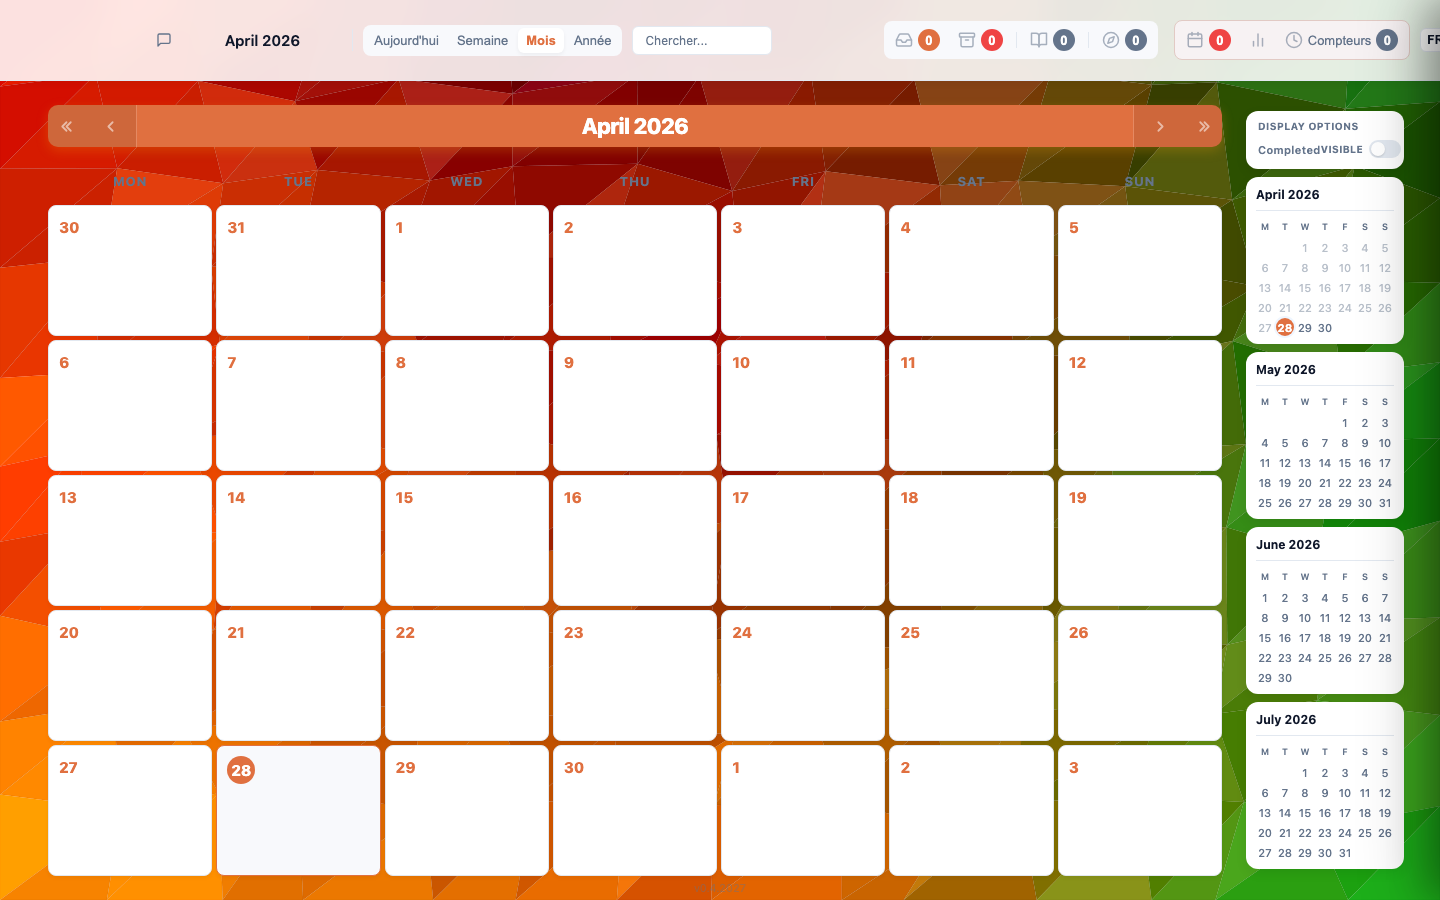
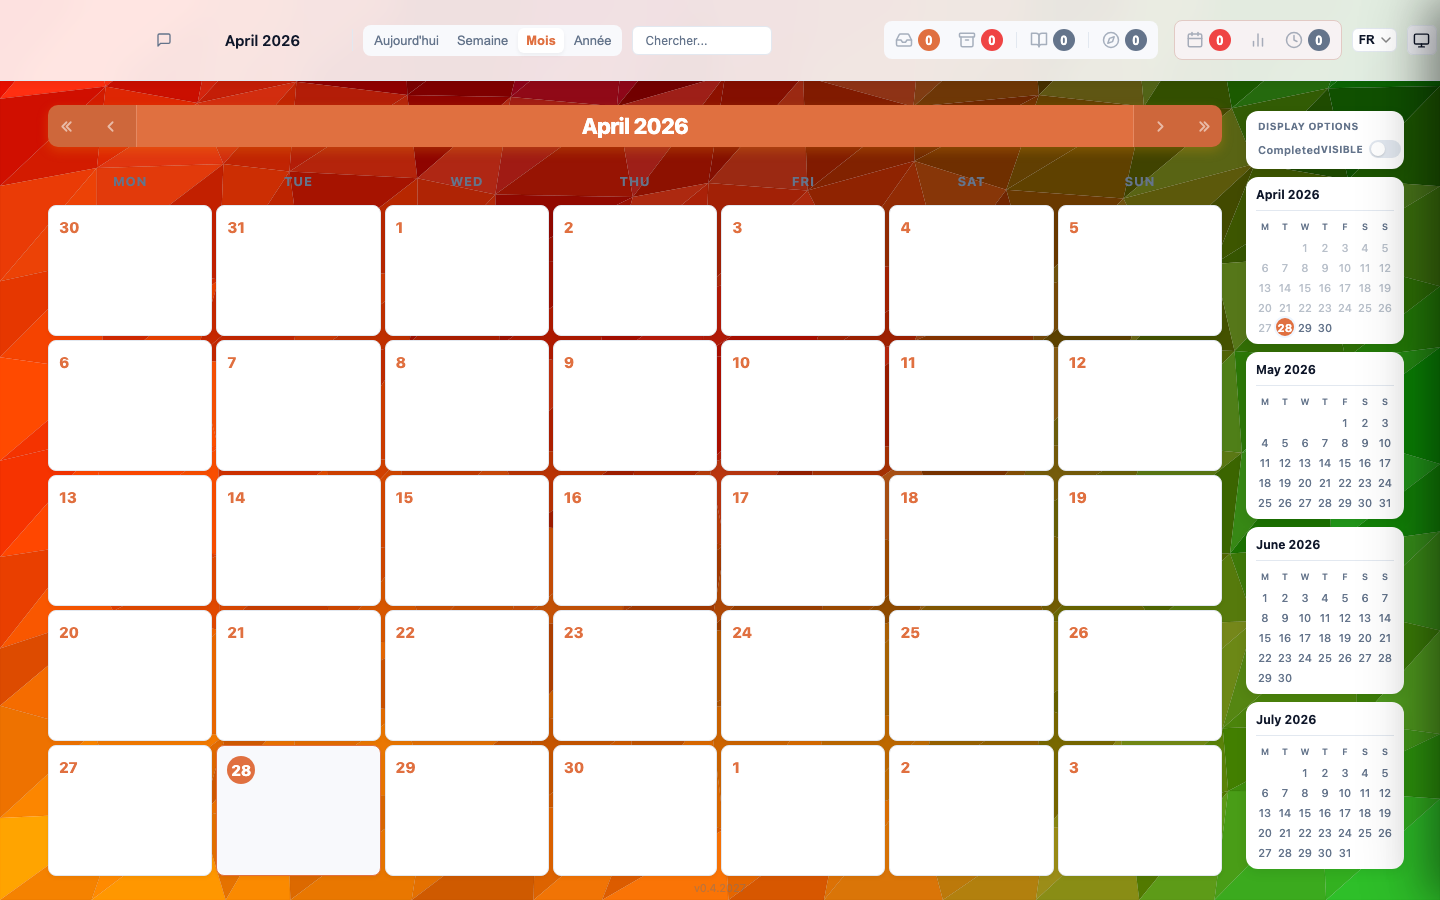
fix: prevent horizontal header overflow at 1500px viewport
- add overflow-x:hidden on body as safety net
- make .quick-find-input shrinkable (flex-shrink:1, min-width:120px)
- include .counters-tab in label-hide rule (was overflowing 130px)
- hide playground-link and hbtn-v26 below 1500px

diff --git a/css/styles.css b/css/styles.css
@@ -67,6 +67,7 @@ body {
   font-size: 15px;
   display: flex;
   flex-direction: column;
+  overflow-x: hidden;
 }
 
 header {
@@ -88,9 +89,10 @@ header.scrolled {
 .header-top {
   display: flex;
   align-items: center;
-  gap: 18px;
+  gap: 12px;
   padding: 14px 0;
   flex-wrap: nowrap;
+  min-width: 0;
 }
 
 .header-sep {
@@ -5944,7 +5946,8 @@ body:has(.bottom-panel:not(.hidden))::before {
   outline: none;
   transition: border-color 0.15s, background-color 0.15s;
   width: 200px;
-  flex-shrink: 0;
+  min-width: 120px;
+  flex-shrink: 1;
   cursor: text;
 }
 .quick-find-input:empty::before {
@@ -8586,7 +8589,13 @@ body:has(.bottom-panel:not(.hidden))::before {
 }
 @media (max-width: 1500px) and (min-width: 961px) {
   .inbox-tab span:not(.nav-badge), .backlog-tab span:not(.nav-badge), .plan-icon-tab span:not(.nav-badge), .projects-tab span:not(.nav-badge),
-  .intentions-tab span:not(.nav-badge), .analyse-tab span:not(.nav-badge) {
+  .intentions-tab span:not(.nav-badge), .analyse-tab span:not(.nav-badge), .counters-tab span:not(.nav-badge) {
+    display: none;
+  }
+  .playground-link {
+    display: none;
+  }
+  .hbtn-v26 {
     display: none;
   }
 }
@@ -8666,7 +8675,7 @@ body:has(.bottom-panel:not(.hidden))::before {
     display: none !important;
   }
   .inbox-tab span:not(.nav-badge), .backlog-tab span:not(.nav-badge), .plan-icon-tab span:not(.nav-badge), .projects-tab span:not(.nav-badge),
-  .intentions-tab span:not(.nav-badge), .analyse-tab span:not(.nav-badge) {
+  .intentions-tab span:not(.nav-badge), .analyse-tab span:not(.nav-badge), .counters-tab span:not(.nav-badge) {
     display: none;
   }
   .nav-group {

diff --git a/css/styles.scss b/css/styles.scss
@@ -99,6 +99,7 @@ body {
   font-size: 15px;
   display: flex;
   flex-direction: column;
+  overflow-x: hidden;
 }
 
 
@@ -122,9 +123,10 @@ header {
 .header-top {
   display: flex;
   align-items: center;
-  gap: 18px;
+  gap: 12px;
   padding: 14px 0;
   flex-wrap: nowrap;
+  min-width: 0;
 }
 
 .header-sep {
@@ -5631,7 +5633,8 @@ body:has(.bottom-panel:not(.hidden))::before {
   outline: none;
   transition: border-color .15s, background-color .15s;
   width: 200px;
-  flex-shrink: 0;
+  min-width: 120px;
+  flex-shrink: 1;
 
   cursor: text;
   &:empty::before { content: attr(data-placeholder); color: var(--text-muted); pointer-events: none; }
@@ -8035,9 +8038,11 @@ body:has(.bottom-panel:not(.hidden))::before {
 // ── Step 2 (961–1500px): hide utility tab labels (space exhausted) ─────────
 @media (max-width: 1500px) and (min-width: 961px) {
   .inbox-tab, .backlog-tab, .plan-icon-tab, .projects-tab,
-  .intentions-tab, .analyse-tab {
+  .intentions-tab, .analyse-tab, .counters-tab {
     span:not(.nav-badge) { display: none; }
   }
+  .playground-link { display: none; }
+  .hbtn-v26        { display: none; }
 }
 
 // ── Step 3 (601–1100px): iPad / tablet — compact single-line header ───────
@@ -8063,7 +8068,7 @@ body:has(.bottom-panel:not(.hidden))::before {
   .add-btn           { display: none !important; }
   .zoom-group        { display: none !important; }
   .inbox-tab, .backlog-tab, .plan-icon-tab, .projects-tab,
-  .intentions-tab, .analyse-tab {
+  .intentions-tab, .analyse-tab, .counters-tab {
     span:not(.nav-badge) { display: none; }
   }
   .nav-group         { flex-shrink: 0; margin-left: 0; }